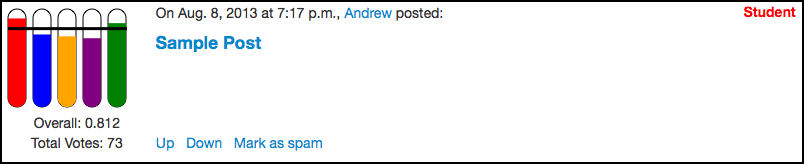
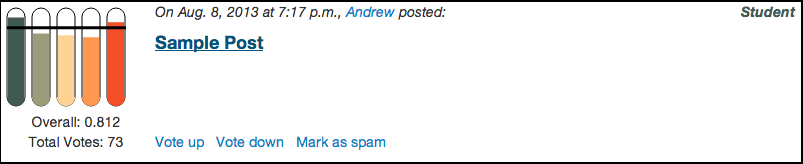
Changed colors and images

diff --git a/static/css/base.css b/static/css/base.css
@@ -13,7 +13,7 @@
 
 /* Templates used on: learn_more */
 .tab-content h3, .tab-content h2, .tab-content h1 {
-	color:#000099;
+	color:#7D5E55; /* Blue: #000099, red-orange: #F54F29 */
 }
 
 .space_li {

diff --git a/accounts/models.py b/accounts/models.py
@@ -19,8 +19,8 @@ class eduuser(AbstractUser):
         (ADMINISTRATOR, 'Administrator'),
         (OUTSIDER, 'Other'),
     )
-    COLORS = {STUDENT: "#004358", TEACHER: "#1F8A70", PARENT: "#BEDB39",
-              ADMINISTRATOR: "#FFE11A", OUTSIDER: "#FD7400"}
+    COLORS = {STUDENT: "#405952", TEACHER: "#F54F29", PARENT: "#9C9B7A",
+              ADMINISTRATOR: "#FFD393", OUTSIDER: "#FF974F"}
 
     user_type = models.CharField(max_length=3, choices=USER_TYPE_CHOICES,
                                  default=STUDENT)

diff --git a/README.rst b/README.rst
@@ -1,9 +1,7 @@
 TODO:
 =============
-#) Change images in learn more page
-#) Use color wheel "Vitamin C" on adobe kuler for all colors?
 #) Brighten home page image
-#) Look into color palette
+#) COLORS: "Ocean Sunset" - Kuler Adobe
 #) Fix sharing tags -- no image appearing, bad URLs?
 #) Twitter- Have complaints about school or ideas for improvement? Let the world know by joining the discussion on YouTalkEdu.com
 #) ASK PEOPLE TO USE AND TEST -- youtalkedu.herokuapp.com
